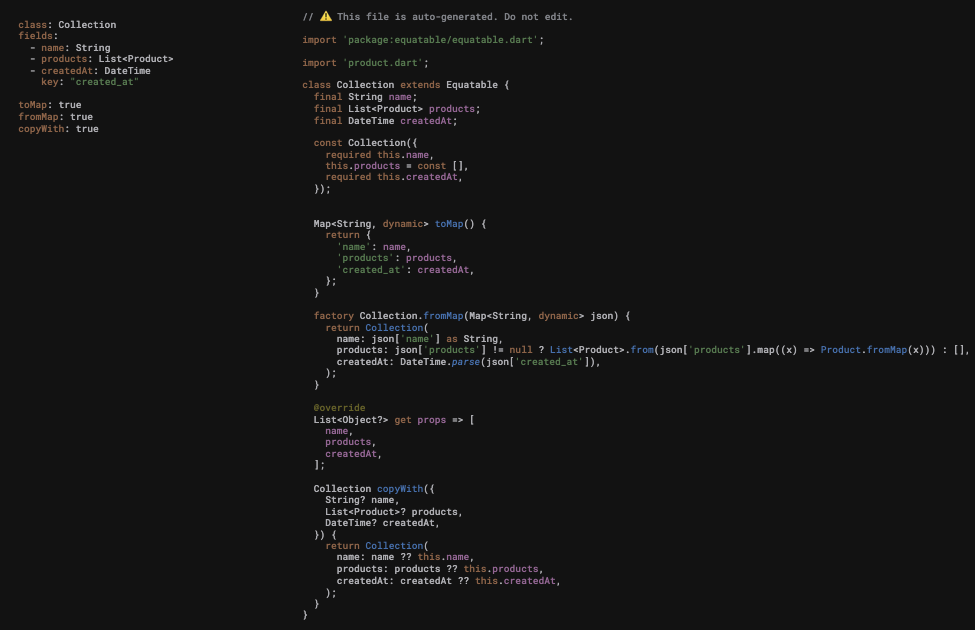
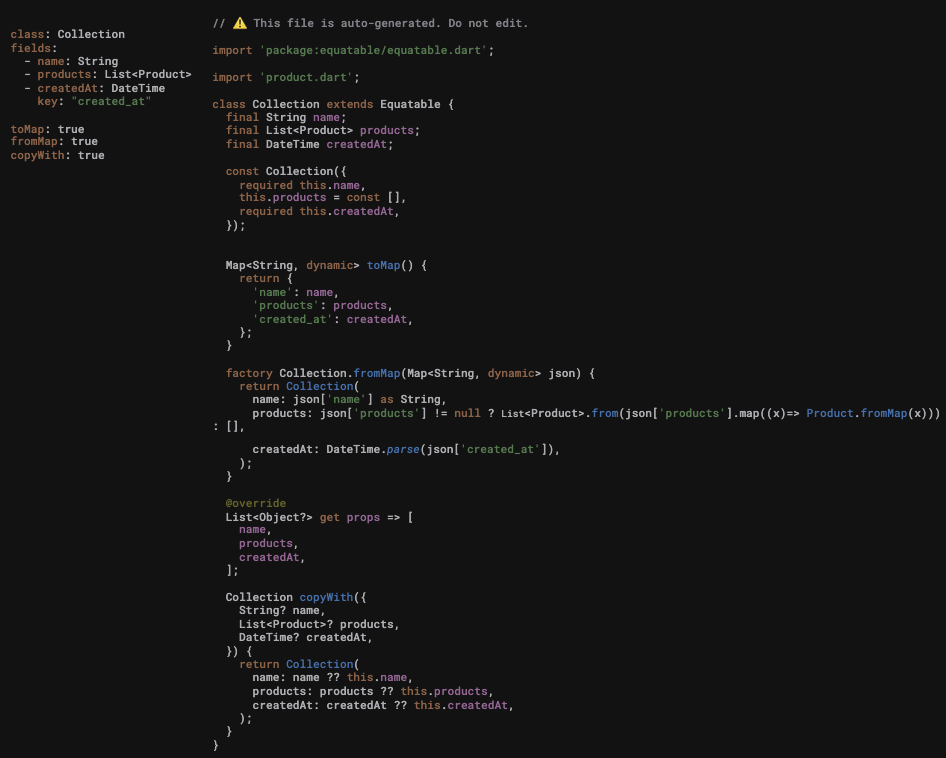
chore: update demo image

diff --git a/lib/models/collection.dart b/lib/models/collection.dart
@@ -9,19 +9,10 @@ class Collection extends Equatable {
   final List<Product> products;
   final DateTime createdAt;
 
-  const Collection({
-    required this.name,
-    this.products = const [],
-    required this.createdAt,
-  });
-
+  const Collection({required this.name, this.products = const [], required this.createdAt});
 
   Map<String, dynamic> toMap() {
-    return {
-      'name': name,
-      'products': products,
-      'created_at': createdAt,
-    };
+    return {'name': name, 'products': products, 'created_at': createdAt};
   }
 
   factory Collection.fromMap(Map<String, dynamic> json) {
@@ -33,17 +24,9 @@ class Collection extends Equatable {
   }
 
   @override
-  List<Object?> get props => [
-    name,
-    products,
-    createdAt,
-  ];
+  List<Object?> get props => [name, products, createdAt];
 
-  Collection copyWith({
-    String? name,
-    List<Product>? products,
-    DateTime? createdAt,
-  }) {
+  Collection copyWith({String? name, List<Product>? products, DateTime? createdAt}) {
     return Collection(
       name: name ?? this.name,
       products: products ?? this.products,
